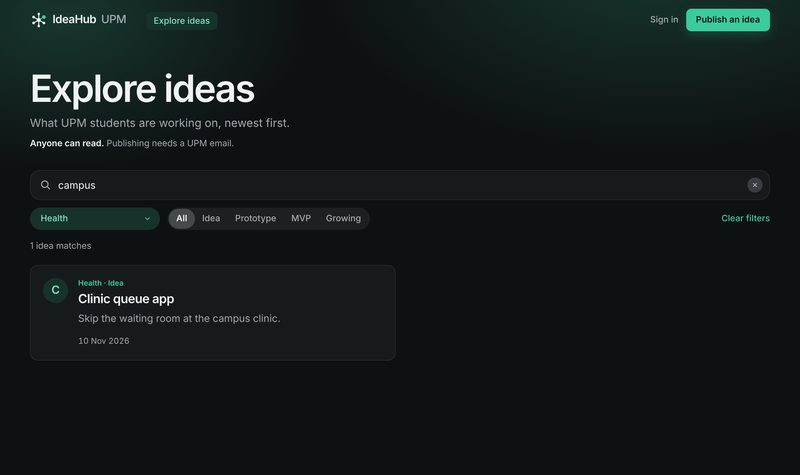
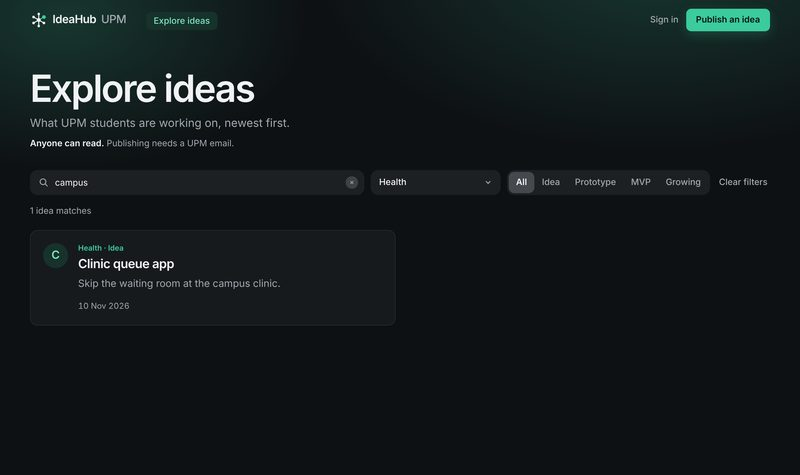
IH-14 put the search bar on one row and keep the site's colors
PR #34 merged the first version of the redesign. This brings main to the
version we settled on:

- search, sector and stage on one row (stacked on phones), all the same
  height with the same soft grey fill and no borders
- the sector menu no longer turns green when picked, and "Clear filters"
  is grey again: the search bar uses the site's existing colors only
- 16px text on phones, so iOS Safari doesn't zoom in on tap
- the publish and edit forms' sector and stage menus are back as they
  were: the redesign only touches the search bar

diff --git a/app/ideas/ideaSearch.tsx b/app/ideas/ideaSearch.tsx
@@ -5,6 +5,11 @@ import Link from "next/link";
 import { ChevronIcon } from "@/app/ui/chevronIcon";
 import { type IdeaSearch as Search, isFiltering, sectors, stages } from "@/lib/ideas/classification";
 
+// Search field and sector menu share one look: filled, no border, the stage control's height.
+const fieldClass =
+  // 16px on phones so iOS Safari doesn't zoom in when a field is tapped.
+  "h-10 appearance-none rounded-xl border-0 bg-ink-soft/10 text-base text-ink outline-none transition-shadow focus:ring-2 focus:ring-accent/40 sm:text-sm";
+
 // IH-14: search field, sector menu and stage segmented control above the ideas list. They combine,
 // and live in the address (/?q=&sector=&stage=), so a filtered list can be shared. Everything works
 // without JavaScript (Enter searches, stages are links); with it, picking a sector applies at once.
@@ -18,9 +23,9 @@ export function IdeaSearch({ search }: { search: Search }) {
       action="/"
       role="search"
       aria-label="Search ideas"
-      className="flex flex-col gap-3"
+      className="flex flex-col gap-2.5 lg:flex-row lg:items-center"
     >
-      <div className="relative">
+      <div className="relative min-w-0 lg:flex-1">
         <SearchIcon />
         <label htmlFor="q" className="sr-only">
           Search ideas
@@ -33,18 +38,18 @@ export function IdeaSearch({ search }: { search: Search }) {
           maxLength={100}
           placeholder="Search ideas"
           enterKeyHint="search"
-          className="h-12 w-full appearance-none rounded-2xl border border-line bg-card pr-12 pl-11 text-base text-ink shadow-[0_1px_2px_rgb(0_0_0/0.04)] outline-none transition-shadow placeholder:text-ink-soft focus:border-accent/60 focus:ring-4 focus:ring-accent/15 [&::-webkit-search-cancel-button]:hidden"
+          className={`${fieldClass} w-full pr-10 pl-10 placeholder:text-ink-soft [&::-webkit-search-cancel-button]:hidden`}
         />
         {search.query !== "" && (
           <Link
             href={addressFor({ ...search, query: "" })}
             aria-label="Clear search"
-            className="absolute top-1/2 right-3 flex size-6 -translate-y-1/2 items-center justify-center rounded-full bg-ink-soft/25 text-ink-soft transition-colors hover:bg-ink-soft/40 hover:text-ink"
+            className="absolute top-1/2 right-2.5 flex size-5 -translate-y-1/2 items-center justify-center rounded-full bg-ink-soft/25 text-ink-soft transition-colors hover:bg-ink-soft/40 hover:text-ink"
           >
             <svg
               viewBox="0 0 12 12"
               aria-hidden="true"
-              className="size-2.5"
+              className="size-2"
               fill="none"
               stroke="currentColor"
               strokeWidth="1.8"
@@ -61,8 +66,8 @@ export function IdeaSearch({ search }: { search: Search }) {
         Search
       </button>
 
-      <div className="flex flex-col gap-3 sm:flex-row sm:items-center">
-        <div className={`relative shrink-0 ${search.sector ? "text-on-soft" : "text-ink"}`}>
+      <div className="flex flex-col gap-2.5 sm:flex-row sm:items-center">
+        <div className="relative shrink-0 text-ink">
           <label htmlFor="sector" className="sr-only">
             Sector
           </label>
@@ -71,9 +76,7 @@ export function IdeaSearch({ search }: { search: Search }) {
             name="sector"
             defaultValue={search.sector}
             onChange={applySector}
-            className={`h-9 w-full cursor-pointer appearance-none rounded-full border py-0 pr-9 pl-4 text-sm font-medium outline-none transition-colors focus-visible:ring-4 focus-visible:ring-accent/15 sm:w-auto ${
-              search.sector ? "border-transparent bg-soft text-on-soft" : "border-line bg-card text-ink hover:bg-soft/50"
-            }`}
+            className={`${fieldClass} w-full cursor-pointer pr-9 pl-3.5 font-medium sm:w-52`}
           >
             <option value="">All sectors</option>
             {sectors.map((sector) => (
@@ -85,7 +88,7 @@ export function IdeaSearch({ search }: { search: Search }) {
           <ChevronIcon />
         </div>
 
-        <nav aria-label="Stage" className="flex rounded-full bg-ink-soft/10 p-0.5">
+        <nav aria-label="Stage" className="flex h-10 shrink-0 rounded-xl bg-ink-soft/10 p-[3px]">
           {[{ value: "", label: "All" } as const, ...stages].map((stage) => {
             const current = search.stage === stage.value;
             return (
@@ -94,7 +97,7 @@ export function IdeaSearch({ search }: { search: Search }) {
                 href={addressFor({ ...search, stage: stage.value })}
                 aria-current={current ? "true" : undefined}
                 scroll={false}
-                className={`flex h-8 flex-1 items-center justify-center rounded-full px-3 text-sm whitespace-nowrap transition-all sm:flex-none ${
+                className={`flex flex-1 items-center justify-center rounded-[9px] px-3 text-sm whitespace-nowrap transition-all sm:flex-none ${
                   current
                     ? "bg-card font-semibold text-ink shadow-[0_1px_3px_rgb(0_0_0/0.12)] dark:bg-ink-soft/30 dark:shadow-none"
                     : "font-medium text-ink-soft hover:text-ink"
@@ -107,7 +110,7 @@ export function IdeaSearch({ search }: { search: Search }) {
         </nav>
 
         {isFiltering(search) && (
-          <Link href="/" className="text-sm font-medium text-accent hover:underline sm:ml-auto">
+          <Link href="/" className="px-1 text-sm font-medium whitespace-nowrap text-ink-soft hover:text-ink">
             Clear filters
           </Link>
         )}
@@ -131,7 +134,7 @@ function SearchIcon() {
     <svg
       viewBox="0 0 20 20"
       aria-hidden="true"
-      className="pointer-events-none absolute top-1/2 left-4 size-[18px] -translate-y-1/2 text-ink-soft"
+      className="pointer-events-none absolute top-1/2 left-3.5 size-4 -translate-y-1/2 text-ink-soft"
       fill="none"
       stroke="currentColor"
       strokeWidth="1.8"

diff --git a/app/ideas/classificationFields.tsx b/app/ideas/classificationFields.tsx
@@ -1,4 +1,3 @@
-import { ChevronIcon } from "@/app/ui/chevronIcon";
 import { type IdeaClassification, sectors, stages } from "@/lib/ideas/classification";
 
 // IH-14: sector and stage, side by side, in the publish and edit forms. Investors filter by them.
@@ -54,20 +53,17 @@ function SelectField({
       <label htmlFor={name} className="text-sm font-medium text-ink">
         {label}
       </label>
-      <div className="relative text-ink">
-        <select
-          id={name}
-          name={name}
-          required
-          defaultValue={defaultValue ?? ""}
-          aria-invalid={Boolean(error)}
-          aria-describedby={error ? errorId : undefined}
-          className="w-full cursor-pointer appearance-none rounded-lg border border-line bg-page py-2 pr-9 pl-3 text-[0.9375rem] text-ink outline-none focus:border-accent focus:ring-2 focus:ring-accent/20 aria-invalid:border-danger"
-        >
-          {children}
-        </select>
-        <ChevronIcon />
-      </div>
+      <select
+        id={name}
+        name={name}
+        required
+        defaultValue={defaultValue ?? ""}
+        aria-invalid={Boolean(error)}
+        aria-describedby={error ? errorId : undefined}
+        className="rounded-lg border border-line bg-page px-3 py-2 text-[0.9375rem] text-ink outline-none focus:border-accent focus:ring-2 focus:ring-accent/20 aria-invalid:border-danger"
+      >
+        {children}
+      </select>
       {error && (
         <p id={errorId} className="text-xs text-danger">
           {error}
